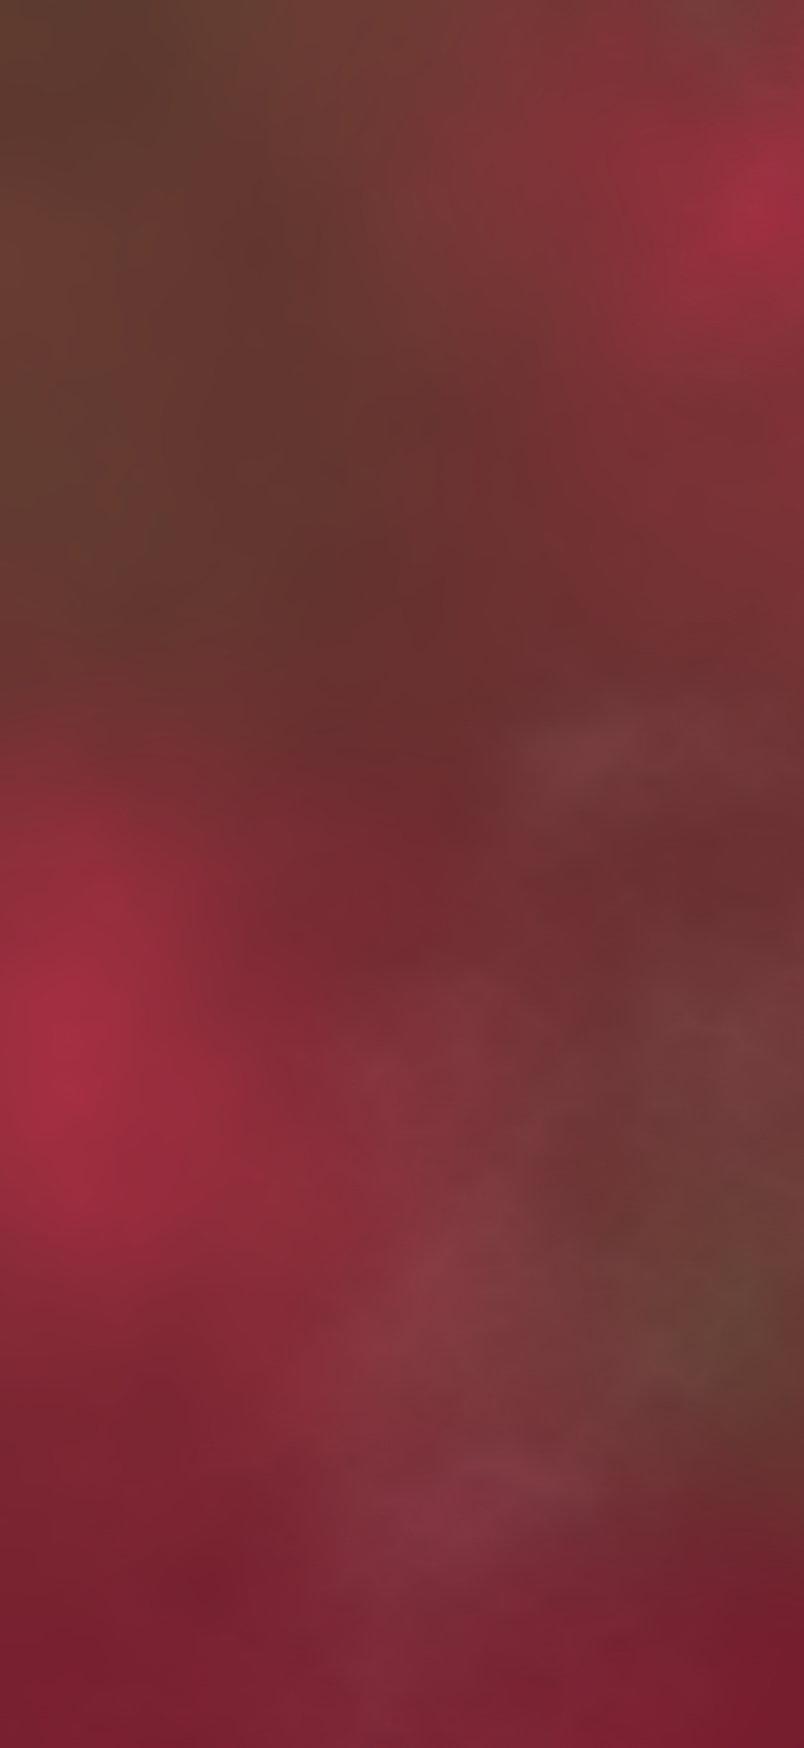
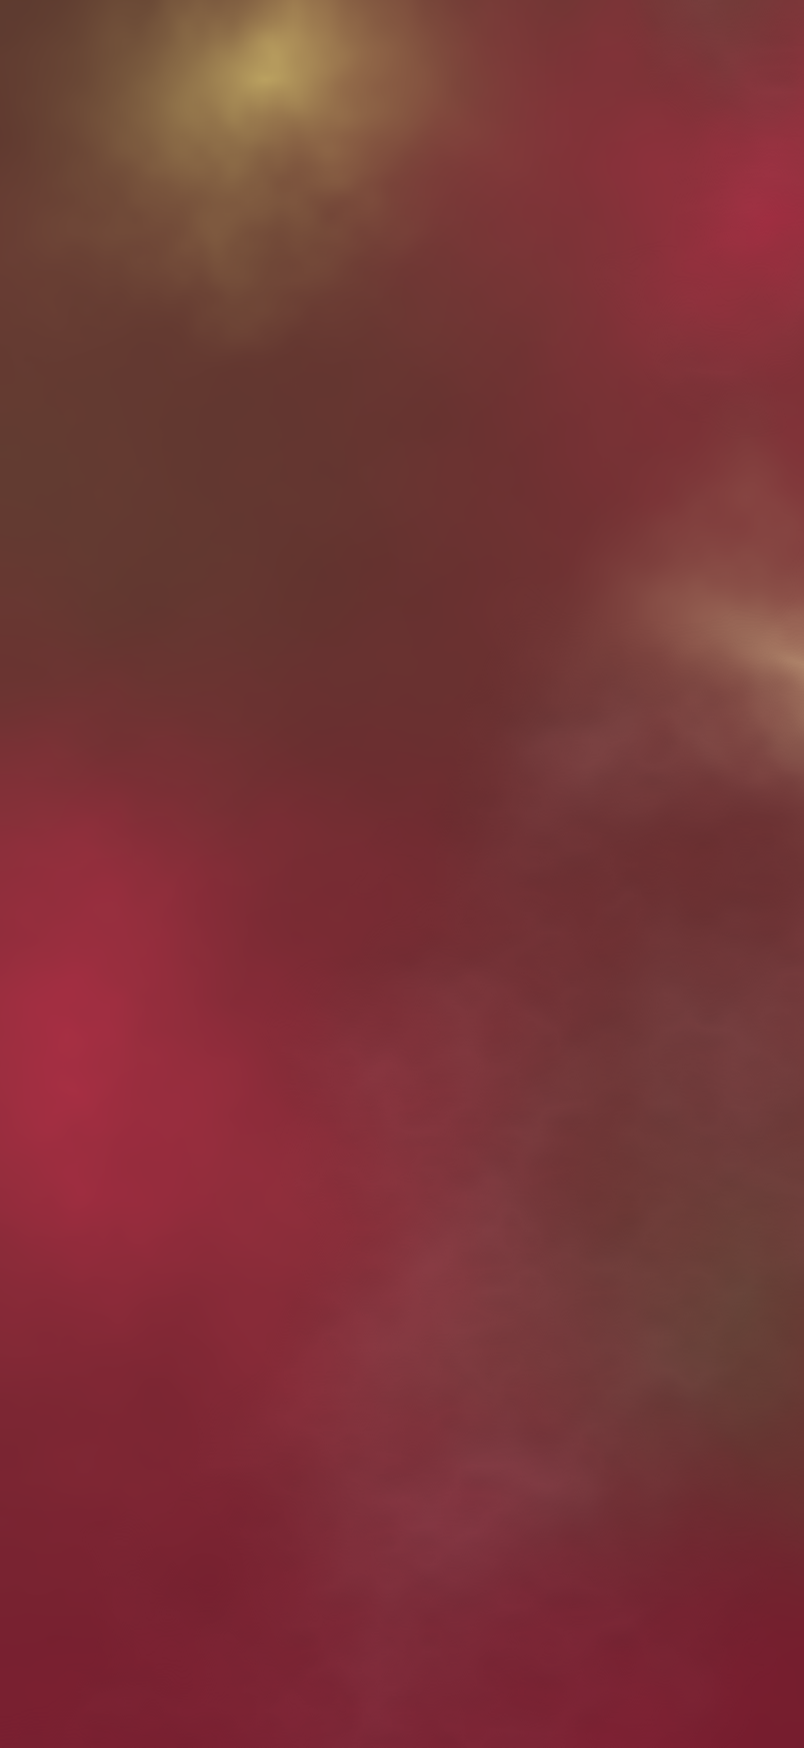
feat(onboarding): aquarelle de l'entrée avec beurre et beige, couvertures grises floutées en fond (#189)

Changed region(s): [[0.1244, 0.0, 0.5597, 0.1545], [0.8085, 0.3089, 1.0, 0.4634]]

diff --git a/app/auth/login.tsx b/app/auth/login.tsx
@@ -4,8 +4,9 @@
  * Il prolonge le splash sans couture : même fond rouge, mêmes yeux, même
  * « chapi » et même tagline, au point près (BrandLockup). Le splash disparaît
  * d'un coup sur cette image identique (voir AnimatedSplash, `handoff`), puis :
- * 1. le rouge du splash se fond dans une aquarelle rouge et chocolat (le
- *    papier du profil, en plus sombre) ;
+ * 1. le rouge du splash se fond dans une aquarelle surtout rouge et chocolat
+ *    (le papier du profil, en plus sombre) ; dessus, un mur de couvertures
+ *    grises, presque transparent, défile lentement ;
  * 2. « chapi » et la tagline s'effacent ; les yeux descendent en petit et en
  *    crème au-dessus de la question « On lit ensemble ? », un grand titre à
  *    gauche juste au-dessus des boutons, qui montent depuis le bas ;
@@ -29,8 +30,10 @@ import { MailIcon } from 'lucide-react-native';
 import React, { useEffect, useState } from 'react';
 import { Alert, Linking, Pressable, StyleSheet, Text, useWindowDimensions, View } from 'react-native';
 import Animated, {
+  type SharedValue,
   Easing,
   useAnimatedStyle,
+  useReducedMotion,
   useSharedValue,
   withDelay,
   withRepeat,
@@ -51,8 +54,24 @@ import { colors, fonts, inkGradient, lowki, spacing } from '../../utils/constant
 import { feel } from '../../utils/feel';
 import { firstStep } from '../../utils/onboardingFlow';
 
+/** Les bandes de couvertures (scripts/generate-login-covers.py gris), une par colonne. */
+const COVER_STRIPS = [
+  require('../../assets/images/login/covers-1.png'),
+  require('../../assets/images/login/covers-2.png'),
+  require('../../assets/images/login/covers-3.png'),
+  require('../../assets/images/login/covers-4.png'),
+];
+/** Une bande : 4 couvertures de 112 × 168 pt, 14 pt entre elles. */
 /** L'aquarelle du fond (scripts/generate-profile-wash.py login) */
 const WASH = require('../../assets/images/watercolor/login-wash.png');
+const COVER_W = 112;
+const STRIP_H = 4 * (168 + 14);
+const COLUMN_GAP = 14;
+/** Grises et à peine là : on devine des livres, l'aquarelle reste le fond. */
+const WALL_OPACITY = 0.1;
+/** Une bande défile sur toute sa hauteur en 40 s : à peine un mouvement. */
+const DRIFT_DURATION = 40000;
+
 
 const ENTRANCE = Easing.inOut(Easing.cubic);
 /** Les mêmes pages que les Réglages */
@@ -69,10 +88,51 @@ const EYES_INK_BOTTOM = 184;
 const QUESTION = 42;
 const QUESTION_LINE = 52;
 
+/** Une colonne de couvertures, posée deux fois pour boucler sans couture. */
+function CoverColumn({ index, x, drift }: { index: number; x: number; drift: SharedValue<number> }) {
+  // Une colonne sur deux monte, l'autre descend, chacune décalée en hauteur
+  const up = index % 2 === 0;
+  const offset = ((index * 0.37) % 1) * STRIP_H;
+  const style = useAnimatedStyle(() => {
+    const travel = ((drift.value * STRIP_H + offset) % STRIP_H) * (up ? -1 : 1);
+    return { transform: [{ translateY: (up ? 0 : -STRIP_H) + travel }] };
+  });
+  const source = COVER_STRIPS[index % COVER_STRIPS.length];
+  return (
+    <Animated.View style={[styles.column, { left: x }, style]}>
+      <Image source={source} style={styles.strip} contentFit="fill" />
+      <Image source={source} style={styles.strip} contentFit="fill" />
+      <Image source={source} style={styles.strip} contentFit="fill" />
+    </Animated.View>
+  );
+}
+
+/** Le mur de couvertures, penché, qui déborde de l'écran de tous les côtés. */
+function CoverWall({ drift }: { drift: SharedValue<number> }) {
+  const { width, height } = useWindowDimensions();
+  // Assez de colonnes pour couvrir l'écran une fois penché
+  const span = Math.hypot(width, height);
+  const count = Math.ceil(span / (COVER_W + COLUMN_GAP)) + 1;
+  const wallW = count * (COVER_W + COLUMN_GAP);
+  return (
+    <View
+      style={[
+        styles.wall,
+        { width: wallW, height: span, left: (width - wallW) / 2, top: (height - span) / 2 },
+      ]}
+    >
+      {Array.from({ length: count }, (_, i) => (
+        <CoverColumn key={i} index={i} x={i * (COVER_W + COLUMN_GAP)} drift={drift} />
+      ))}
+    </View>
+  );
+}
+
 export default function WelcomeScreen() {
   const insets = useSafeAreaInsets();
   const { width: screenWidth, height: screenHeight } = useWindowDimensions();
   const router = useRouter();
+  const reduceMotion = useReducedMotion();
 
   const [isLoading, setIsLoading] = useState(false);
   const login = useAuthStore((state) => state.login);
@@ -83,6 +143,7 @@ export default function WelcomeScreen() {
 
 
   const wash = useSharedValue(0);
+  const drift = useSharedValue(0);
   const buttons = useSharedValue(0);
   const lift = useSharedValue(0);
   const [buttonsHeight, setButtonsHeight] = useState(0);
@@ -104,6 +165,9 @@ export default function WelcomeScreen() {
     if (!splashGone) return;
 
     wash.value = withTiming(1, { duration: 900, easing: Easing.out(Easing.cubic) });
+    if (!reduceMotion) {
+      drift.value = withRepeat(withTiming(1, { duration: DRIFT_DURATION, easing: Easing.linear }), -1, false);
+    }
     lift.value = withDelay(250, withTiming(1, { duration: 850, easing: ENTRANCE }));
     buttons.value = withDelay(450, withTiming(1, { duration: 550, easing: Easing.out(Easing.cubic) }));
 
@@ -132,6 +196,7 @@ export default function WelcomeScreen() {
   }, [splashGone]);
 
   const washStyle = useAnimatedStyle(() => ({ opacity: wash.value }));
+  const wallStyle = useAnimatedStyle(() => ({ opacity: wash.value * WALL_OPACITY }));
   const taglineStyle = useAnimatedStyle(() => ({ opacity: 1 - wash.value }));
   // Les yeux rétrécissent autour du centre de l'écran, puis se posent au-dessus
   // de la question, alignés sur elle à gauche, et passent du rouge gravé au crème
@@ -206,6 +271,9 @@ export default function WelcomeScreen() {
       {/* Le rouge du splash se fond dans l'aquarelle, rouge et chocolat */}
       <Animated.View style={[StyleSheet.absoluteFill, washStyle]} pointerEvents="none">
         <Image source={WASH} style={StyleSheet.absoluteFill} contentFit="cover" />
+      </Animated.View>
+      <Animated.View style={[StyleSheet.absoluteFill, styles.wallFrame, wallStyle]} pointerEvents="none">
+        <CoverWall drift={drift} />
       </Animated.View>
 
       {/* Point d'ancrage au centre de l'écran, comme au splash */}
@@ -290,6 +358,22 @@ const styles = StyleSheet.create({
     justifyContent: 'center',
     alignItems: 'center',
     backgroundColor: BRAND_BG[1],
+  },
+  wallFrame: {
+    overflow: 'hidden',
+  },
+  wall: {
+    position: 'absolute',
+    transform: [{ rotate: '-10deg' }],
+  },
+  column: {
+    position: 'absolute',
+    top: 0,
+    width: COVER_W,
+  },
+  strip: {
+    width: COVER_W,
+    height: STRIP_H,
   },
   center: {
     width: 0,

diff --git a/scripts/generate-login-covers.py b/scripts/generate-login-covers.py
@@ -1,0 +1,109 @@
+"""
+Le mur de couvertures de l'écran de connexion : des livres du catalogue
+Explorer, passés en rouge ton sur ton (bichromie entre deux rouges proches du
+fond), empilés en 4 colonnes qui défilent à l'écran.
+
+    python3 scripts/generate-login-covers.py [rouge|gris|creme|couleur] [dossier]
+
+Sortie : assets/images/login/covers-1.png … covers-4.png, une bande verticale
+par colonne. Chaque bande se raccorde à elle-même : posée deux fois l'une sous
+l'autre, elle défile en boucle sans couture.
+"""
+
+import io
+import json
+import sys
+import urllib.request
+from pathlib import Path
+
+import numpy as np
+from PIL import Image, ImageDraw, ImageFilter
+
+ROOT = Path(__file__).resolve().parent.parent
+OUT = ROOT / "assets/images/login"
+
+TITLES = [
+    "Fourth Wing", "Les Sept Maris d’Evelyn Hugo", "Babel", "Heartstopper",
+    "Le Prince cruel", "Jamais plus", "Verity", "Book Lovers",
+    "Love Hypothesis", "Changer l’eau des fleurs", "La Tresse", "Katabasis",
+    "Là où chantent les écrevisses", "Demain, et demain, et demain",
+    "Il est grand temps de rallumer les étoiles", "Ugly Love",
+]
+COLUMNS = 4
+
+# Une couverture fait 112 pt de large à l'écran, rendue en @3x.
+COVER_W, COVER_H = 336, 504
+GAP = 42
+RADIUS = 18
+
+# Bichromie : du rouge foncé (ombres) au rouge clair (lumières), autour du fond
+# #A62F43 → #92293B. L'écart reste faible : on devine les livres, sans plus.
+DARK = np.array([0x6E, 0x1F, 0x2C])
+LIGHT = np.array([0xC2, 0x4A, 0x5D])
+# Variante « gris » (l'écran de connexion sur l'aquarelle, 2026-10-28) : sans
+# aucune saturation, floutée, posée en transparence : elle prend la couleur du fond
+GREY_DARK = np.array([0x60, 0x60, 0x60])
+GREY_LIGHT = np.array([0xC0, 0xC0, 0xC0])
+# Variante « crème » : les livres en papier clair, posés sur l'aquarelle
+CREAM_DARK = np.array([0xC9, 0xB8, 0xA0])
+CREAM_LIGHT = np.array([0xFF, 0xFB, 0xF4])
+
+
+def covers():
+    catalog = json.loads((ROOT / "constants/exploreCatalog.json").read_text())
+    found = {}
+
+    def walk(o):
+        if isinstance(o, dict):
+            url = next((v for k, v in o.items() if "cover" in k.lower() and isinstance(v, str)), None)
+            if o.get("title") in TITLES and url:
+                found.setdefault(o["title"], url)
+            for v in o.values():
+                walk(v)
+        elif isinstance(o, list):
+            for v in o:
+                walk(v)
+
+    walk(catalog)
+    return [found[t] for t in TITLES if t in found]
+
+
+def tone(url, mode):
+    # Les vignettes Apple Books acceptent n'importe quelle taille dans l'URL
+    url = url.rsplit("/", 1)[0] + f"/{COVER_W * 2}x{COVER_H * 2}bb.jpg"
+    img = Image.open(io.BytesIO(urllib.request.urlopen(url).read())).convert("RGB")
+    img = img.resize((COVER_W, COVER_H), Image.LANCZOS)
+    if mode == "couleur":
+        out = img.convert("RGBA")
+    else:
+        lum = np.asarray(img.convert("L"), dtype=np.float32)[..., None] / 255
+        dark, light = {"rouge": (DARK, LIGHT), "gris": (GREY_DARK, GREY_LIGHT)}.get(mode, (CREAM_DARK, CREAM_LIGHT))
+        out = Image.fromarray((dark + (light - dark) * lum).astype(np.uint8)).convert("RGBA")
+        if mode == "gris":
+            # Diffus : les livres se devinent, aucun titre ne se lit
+            out = out.filter(ImageFilter.GaussianBlur(4))
+    mask = Image.new("L", out.size, 0)
+    ImageDraw.Draw(mask).rounded_rectangle((0, 0, COVER_W - 1, COVER_H - 1), RADIUS, fill=255)
+    out.putalpha(mask)
+    return out
+
+
+def main():
+    mode = sys.argv[1] if len(sys.argv) > 1 else "rouge"
+    out_dir = Path(sys.argv[2]) if len(sys.argv) > 2 else OUT
+    urls = covers()
+    tiles = [tone(u, mode) for u in urls]
+    out_dir.mkdir(parents=True, exist_ok=True)
+    per = len(tiles) // COLUMNS
+    for c in range(COLUMNS):
+        col = tiles[c::COLUMNS][:per]
+        strip = Image.new("RGBA", (COVER_W, per * (COVER_H + GAP)), (0, 0, 0, 0))
+        for i, t in enumerate(col):
+            strip.paste(t, (0, i * (COVER_H + GAP)), t)
+        # Bichromie : 128 teintes suffisent, le fichier pèse trois fois moins
+        strip.quantize(128, method=Image.Quantize.FASTOCTREE).save(out_dir / f"covers-{c + 1}.png", optimize=True)
+    print(f"{len(tiles)} couvertures, {COLUMNS} colonnes de {per}")
+
+
+if __name__ == "__main__":
+    main()

diff --git a/scripts/generate-profile-wash.py b/scripts/generate-profile-wash.py
@@ -13,7 +13,8 @@ Ce qui fait aquarelle :
 - pas de grain ni de granulation : essayés, jugés pas beaux (Lea, 2026-10-23).
 
 Variante « login » (2026-10-28) : le fond plein écran de la connexion, en
-rouge et chocolat seulement (plus de brun, plus de rouge, sans beurre) →
+surtout rouge et chocolat, avec une touche de beurre et de beige pour avoir
+toute la palette ; jamais sous le titre ni les boutons (contraste du crème) →
 assets/images/watercolor/login-wash.png.
 
 Usage : python3 scripts/generate-profile-wash.py [login]
@@ -37,6 +38,7 @@ BUTTER = (np.array([0xF5, 0xE6, 0xA8]), np.array([0xD6, 0xC3, 0x6F]))
 RED = (np.array([0xA6, 0x2F, 0x43]), np.array([0x7C, 0x20, 0x31]))
 CHOCOLATE_LIGHT = np.array([0x63, 0x3D, 0x32])
 CHOCOLATE_DARK = np.array([0x48, 0x2B, 0x24])
+BEIGE = np.array([0xC5, 0xA4, 0x7E])
 
 
 def value_noise(rng, cell):
@@ -81,6 +83,9 @@ def main():
             (RED[0], blob(nx, ny, 0.15, 0.62, 0.80, 0.32, 1.0)),
             (CHOCOLATE_LIGHT, blob(nx, ny, 0.95, 0.72, 0.75, 0.32, 1.0)),
             (RED[1], blob(nx, ny, 0.40, 1.00, 0.90, 0.30, 1.0)),
+            # Les touches claires, légères : en haut, loin du texte
+            (BUTTER[1], 0.75 * blob(nx, ny, 0.30, 0.04, 0.45, 0.14, 1.0)),
+            (BEIGE, 0.7 * blob(nx, ny, 1.00, 0.36, 0.40, 0.14, 1.0)),
         )
     else:
         # Fond : beurre foncé en haut → rouge en bas

diff --git a/DESIGN.md b/DESIGN.md
@@ -811,7 +811,7 @@ Prototype validé le 2026-10-28 (artefact « Onboarding chapi »). Deux temps :
 
 - **Entrée** : l'écran de connexion, sans volets d'ouverture (jugés trop
   chargés le 2026-10-28 ; variantes comparées en artefact, la « Titre à
-  gauche » retenue). Il part identique au splash (rouge), qui se fond dans une aquarelle rouge et chocolat (`generate-profile-wash.py login`, le papier du profil en plus sombre ; le mur de couvertures est retiré), puis « chapi » et la tagline
+  gauche » retenue). Il part identique au splash (rouge), qui se fond dans une aquarelle surtout rouge et chocolat, avec une touche de beurre et de beige loin du texte (`generate-profile-wash.py login`, le papier du profil en plus sombre). Dessus, le mur de couvertures en gris flouté à 10 % (`generate-login-covers.py gris`), diffus. Puis « chapi » et la tagline
   s'effacent, les yeux se posent en petit et en crème (`LivingEye light`)
   au-dessus de la question, un grand titre à gauche juste au-dessus des
   boutons : « On lit » / « *ensemble* ? ». « J'ai un lien ou un code » sous les
